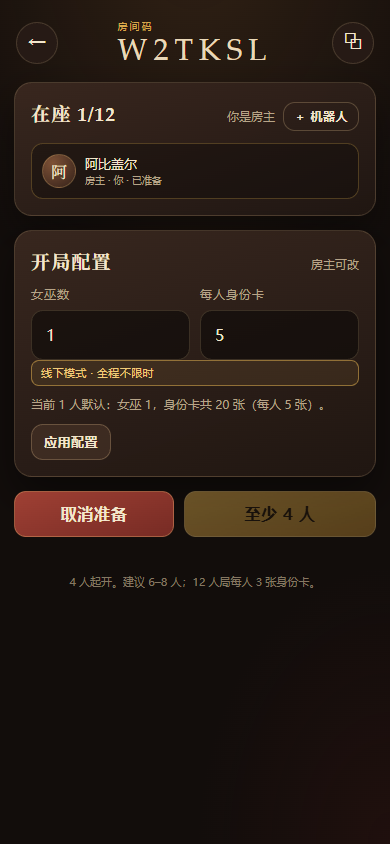
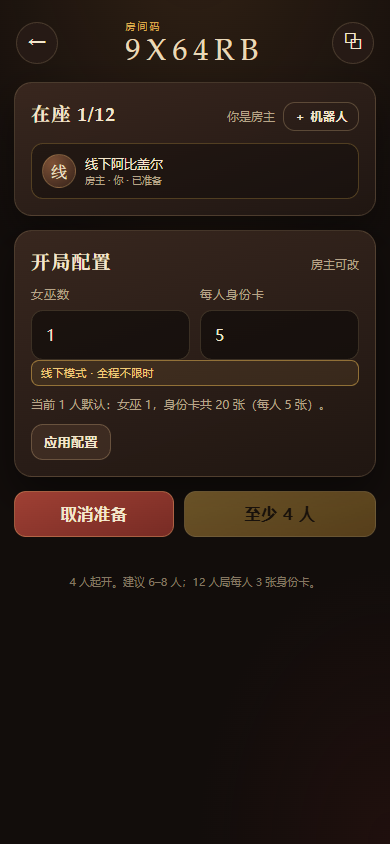
docs(ops): 记录 33b9e5e 上线与线下模式的线上证据
- 现状表构建 commit 换成 33b9e5e（部署 4e2cfb93-…），可回滚列表补到四份
- 证据位 E6：版本探针 salem-v7 → v8、首页含 id="offlineMode"、冒烟 9/9、
  线上真浏览器从勾选建房到白天全程「不限时」的三张实拍
- 版本探针速判表补一句「线下模式在不在」的判法
- 验收清单补一行

Changed region(s): [[0.3077, 0.0, 0.6769, 0.0924], [0.2154, 0.1848, 0.4308, 0.2156], [0.1231, 0.1848, 0.1846, 0.2156]]

diff --git a/docs/ops/railway-deploy.md b/docs/ops/railway-deploy.md
@@ -16,7 +16,7 @@
 | 服务 | `salem-online` / `bb45b318-2ee6-4448-9063-fd6f36e8d47c` |
 | 环境 | `production` / `2dcec8b2-89bb-4258-a198-46f12a54f21a` |
 | 构建 | `builder: DOCKERFILE`、`dockerfilePath: /Dockerfile` |
-| 构建 commit | 线上现役 `49057d3`（角色卡浮层与开局锁资料，部署 `97f2772a-…`）；同一环境里还留着 `e720751`（`e68d9de2-…`）、`3c751ae`（`cd594cc1-…`）与 `4686b6d`（`c0cbd48c-…`）三份可回滚部署 |
+| 构建 commit | 线上现役 `33b9e5e`（线下模式，部署 `4e2cfb93-…`）；同一环境里还留着 `49057d3`（`97f2772a-…`）、`e720751`（`e68d9de2-…`）、`3c751ae`（`cd594cc1-…`）与 `4686b6d`（`c0cbd48c-…`）四份可回滚部署 |
 | 副本 | `numReplicas: 1` |
 | 区域 | `multiRegionConfig: { asia-southeast1-eqsg3a: { numReplicas: 1 } }`（Singapore 单区） |
 | 健康检查 | `healthcheckPath: /health`，`healthcheckTimeout: 300` 秒 |
@@ -66,7 +66,7 @@
 - 部署 id `5bc7089f-3818-4632-a6c5-f80d1f6b3277`，`createdAt 2026-11-06T02:57:21.113Z`，`BUILDING → DEPLOYING → SUCCESS`；`meta.commitHash 3c751aeb364c7daee623ed0a0457156d30b15d6b`、`imageDigest sha256:c613880105a1…`、`builder DOCKERFILE`、`dockerfilePath /Dockerfile`。
 - 验证：`/health` 返回 `{"ok":true,"rooms":0,"uptime":18.98}`（与 18 秒前的发布对齐）；`deploy-smoke.mjs` **9/9 通过**（首页 8581 bytes、建房 `598TNQ`、`wss://` 握手 101）；`/reconnect.js` 200（2764 bytes，含 `ROOM_GONE_MESSAGE`）、`/sw.js` 报 `salem-v2`、首页含 `id="reopenBtn"` —— 三项一起证明线上跑的就是 #19 之后的代码，不是缓存里的旧前端。
 
-历史记录（供以后判断「线上是不是新版」参考）：本次发布之前，线上那份部署的构建 commit 是 `4686b6d`，早于 #19，首页缺「重新开房」按钮、也没有 `/reconnect.js`。所以「重启后旧房码失效」只能在**发布一次之后**验，否则验到的是没有终态提示的旧前端。判断线上版本的廉价探针：`/reconnect.js` 是否 200、`/sw.js` 里的 `salem-vN`、首页是否含 `id="reopenBtn"`；要判「发牌确认线与座位资料线在不在」，再加 `/deal-view.js`、`/reveal-view.js`、`/table-view.js`、`/profile-store.js`、`/avatar-normalize.js` 五个是否 200（`e720751` 之前它们全是 404）。
+历史记录（供以后判断「线上是不是新版」参考）：本次发布之前，线上那份部署的构建 commit 是 `4686b6d`，早于 #19，首页缺「重新开房」按钮、也没有 `/reconnect.js`。所以「重启后旧房码失效」只能在**发布一次之后**验，否则验到的是没有终态提示的旧前端。判断线上版本的廉价探针：`/reconnect.js` 是否 200、`/sw.js` 里的 `salem-vN`、首页是否含 `id="reopenBtn"`；要判「发牌确认线与座位资料线在不在」，再加 `/deal-view.js`、`/reveal-view.js`、`/table-view.js`、`/profile-store.js`、`/avatar-normalize.js` 五个是否 200（`e720751` 之前它们全是 404）；要判「线下模式在不在」，看首页有没有 `id="offlineMode"`、`/sw.js` 是否 `salem-v8` 及以上。
 
 ## 回滚一次
 
@@ -131,6 +131,14 @@ after  restart /api/rooms/UM5TA5 -> 404 ；/health {"ok":true,"rooms":0,"uptime"
 - 验证：`/health` 返回 `{"ok":true,"rooms":0,"uptime":88.89}`；`deploy-smoke.mjs` **9/9 通过**（建房 `Q9G2U2`、`wss://` 握手 101）；角色卡牌面 `assets/cards/zh/{mary-warren,thomas-danforth,abigail-williams,cotton-mather,john-proctor}.png` 五个全 200（471–492 KB），说明浮层图片路径在线上可达。
 - 本地真浏览器实拍（390×844，房间 `3755DV`，`docs/acceptance/shots/live-role-info-self.png`、`live-role-info-role.png`）：自己面板在「玛丽·沃伦 · 指控 2 点」下方多出技能行「免疫情侣与黑猫的负面效果。」；点自己面板空白处弹出「你的角色卡 / 玛丽·沃伦 / 技能 / 你 · 存活 · 指控 2 点 · 身份卡 已揭示 0 / 5」并带牌面；点对手座位弹出「机器人1 的角色卡 / 托马斯·丹福斯 / 第 6（或 7）点指控时可翻对方一张身份卡。」；点自己身份卡只开卡详情，`#roleModal` 与 `#profileModal` 都不开——两弹窗互相抢的问题消失。
 
+**证据位 E6（发布 `33b9e5e`：建房可开线下模式）· 已回填 2026-11-06**：
+- 发布对象 `main` @ `33b9e5e`（`feat: 建房可开「线下模式」，全程不设倒计时`）。
+- 调用 `serviceInstanceDeployV2(commitSha: "33b9e5e487309bc1883a5bc0a8ba4a46281593b0", …)` → 部署 `4e2cfb93-11a5-4e9a-989b-123fe8411a41`。
+- 版本探针（发布前 → 发布后）：`/sw.js` `salem-v7` → **`salem-v8`**（2550 bytes）；首页 12895 → **12268 bytes**，含 `id="offlineMode"`（文案「线下模式面对面打牌，不设任何倒计时」）与 `id="offlineBadge"`；`/app.js` 75234 bytes，含「 · 不限时」与从 `S.room` 读 offline 的写法；`/deal-view.js`、`/reveal-view.js`、`/table-view.js`、`/profile-store.js`、`/avatar-normalize.js`、`/reconnect.js` 六个仍全 200。
+- 验证：`/health` 返回 `{"ok":true,"rooms":0,"uptime":13.97}`；`deploy-smoke.mjs` **9/9 通过**（建房 `KJYBRS`、`wss://` 握手 101）。
+- 线上真浏览器实拍（390×844，`docs/acceptance/shots/live-offline-landing.png`、`live-offline-lobby.png`、`live-offline-turn.png`）：落地页勾上「线下模式」→ 建房 `9X64RB`（`room.offline === true`）→ 大厅出现「线下模式 · 全程不限时」→ 加 3 个机器人开局 → 发牌屏「发牌 · 不限时」、`#dealTimer` 写「不限时」→ 选角色并确认后进白天，回合徽标「轮到 你 · 不限时」，`#dawnTimer` 与 `#nightTimer` 同为「不限时」。
+- 本地补充证据（`PORT=8087`，房间 `W2TKSL`）：黎明相位停留 20 秒以上原地不动、`private.dawn.deadline` 缺失；对照的普通房 45 秒兜底照旧；服务端 `offline.mjs` 四段推时钟同样证明线下房不会自己往下走。
+
 ## 看日志与排障
 
 - 运行日志在服务 → Logs；客户端连不上的第一件事是看有没有 `salem server listening` 行、有没有进程崩溃栈。
@@ -169,6 +177,7 @@ $env:BASE="http://127.0.0.1:8137"; node apps/server/test/deploy-smoke.mjs
 | 冒烟脚本对公网跑通 | 已通过 | 2026-11-06 共跑 4 次（发布后、回滚后、复位后）：每次 9 项全 ok |
 | 发牌确认线与座位资料线已上线 | 已通过 2026-11-06 | 证据位 E4：部署 `e68d9de2-…` / commit `e720751` / 五个前端模块从 404 变 200、`/sw.js` 变 `salem-v6`、冒烟 9/9、真浏览器发牌屏出角色候选 |
 | 角色卡浮层与开局锁资料已上线 | 已通过 2026-11-06 | 证据位 E5：部署 `97f2772a-…` / commit `49057d3` / `/sw.js` 变 `salem-v7`、首页含 `id="roleModal"`、五个角色牌面 200、冒烟 9/9、真浏览器技能行与三种点击实测 |
+| 线下模式已上线（建房勾选后全程无倒计时） | 已通过 2026-11-06 | 证据位 E6：部署 `4e2cfb93-…` / commit `33b9e5e` / `/sw.js` 变 `salem-v8`、首页含 `id="offlineMode"`、冒烟 9/9、真浏览器从建房到白天全程「不限时」 |
 
 公网冒烟实测输出（2026-11-06，发布 `3c751ae` 之后立刻跑，`/health` 报 `uptime` 约 19 秒，与发布时刻对齐）：
 
